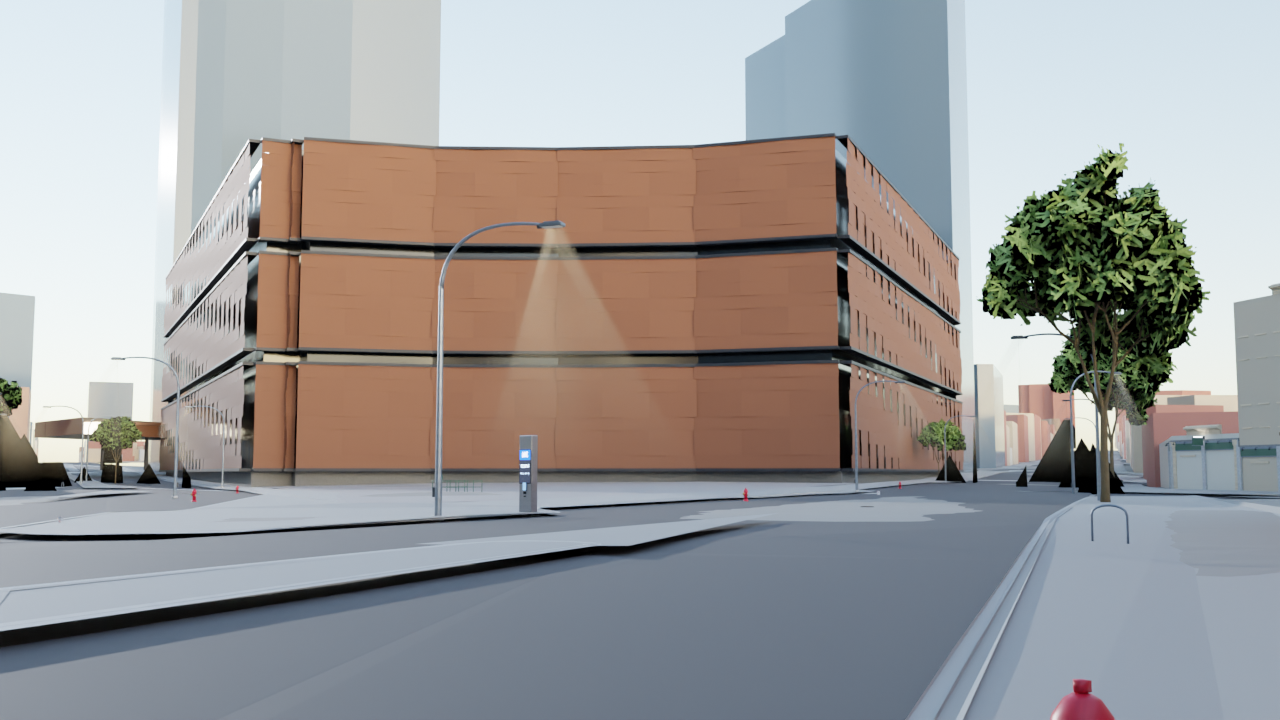
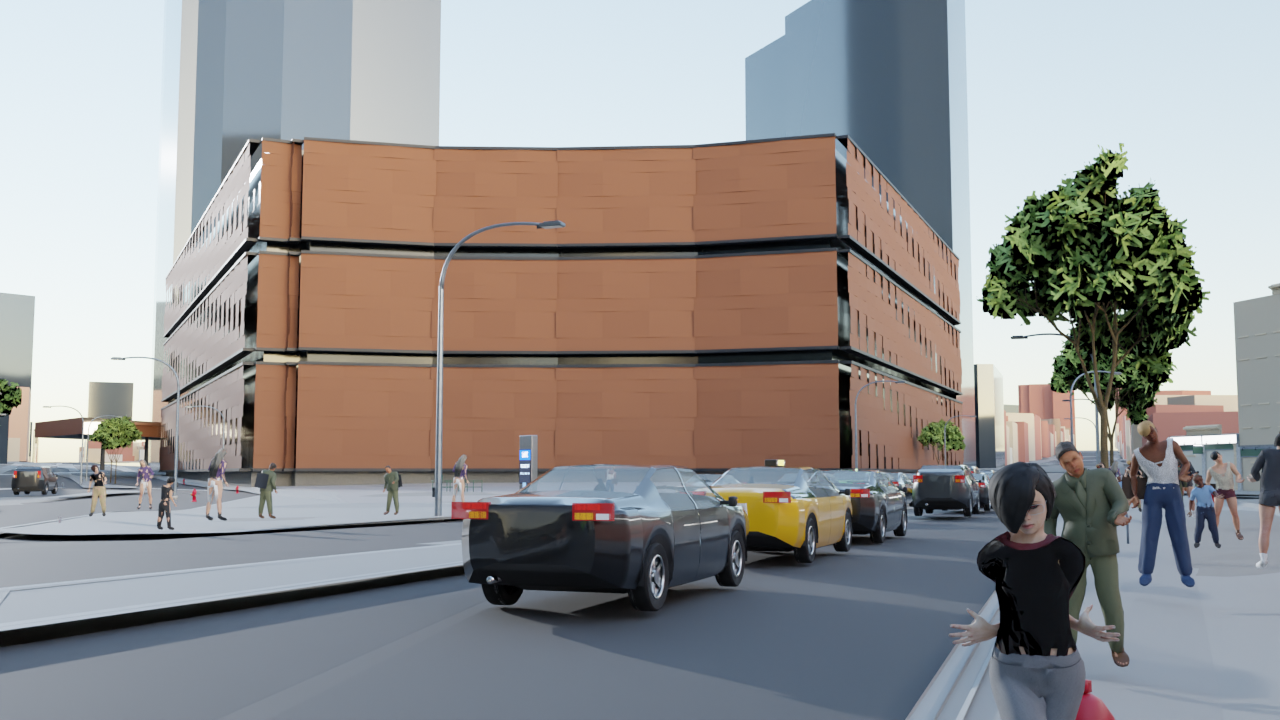
verify: Barclays Center - right silhouette, no surface, and brighter than its photograph
The arena is recognisable: three weathered-steel bands wrapping the curved
corner, dark glazing courses between, the mass turning from Atlantic into
Flatbush.  Subject at 216.8 m, 50 vehicles queued at the junction with a cab
among them, 234 people, a LinkNYC kiosk, trees and lamps.

What is missing is the relief.  The real facade is a deep lattice of canted,
perforated pre-weathered steel panels that reads as texture at any distance;
here it is a smooth plane with panel lines scribed on it.  Right silhouette,
right colour, none of the surface that makes it that building.  The entrance
oculus and canopy are absent.

And this frame is brighter than its photograph - 0.570 against 0.384 - one of
the three in the current pass that go that way.  It is the concrete reason I16
is recorded as over-dispersion rather than as a darkening: a constant exposure
offset would fix the Wall Street canyon and ruin this.

Claude-Session: https://claude.ai/code/session_012rCzdfEp56Z5bDvSJLVsiQ

diff --git a/docs/verification/comparison/landmark_barclays_center/assessment.md b/docs/verification/comparison/landmark_barclays_center/assessment.md
@@ -12,6 +12,29 @@
 
 **Verdict — right place, right footprint, right colour, wrong shape: the arena is a plain banded box where the building is a sculpted weathering-steel shell with a cantilevered canopy and an oculus, and the corner it stands on is empty of everything that fills the photograph**
 
+## Re-rendered 2026-09-07
+
+The arena is recognisable, which is the main thing a landmark sheet has to achieve: the three
+weathered-steel bands wrapping the curved corner, the dark glazing courses between them, the way the
+mass turns from Atlantic Avenue into Flatbush. Subject at 216.8 m, two landmark models in the scene,
+50 vehicles queued at the junction with a yellow cab among them, 234 people on the pavements, a
+LinkNYC kiosk at the kerb, street trees and lamp standards.
+
+**What is missing is the relief.** The real facade is a deep lattice of pre-weathered steel panels,
+each one canted and perforated, and it reads as texture at any distance. Here it is a smooth
+orange-brown plane with faint panel lines scribed on it, so the building has the right silhouette,
+the right colour and none of the surface that makes it that building. The entrance oculus and its
+canopy are absent.
+
+**This frame is brighter than its photograph, not darker** — mean **0.570 against 0.384**. It is one
+of the three in the current pass that go that way, and it is the reason deviation I16 is recorded as
+over-dispersion rather than as a darkening: a constant exposure offset would fix the Wall Street
+canyon and ruin this.
+
+No agent needed culling here. The nearest pedestrian sits at the lower right, close enough to be
+prominent and outside the 3.5 m clearance — which is the behaviour that constant was re-derived to
+produce.
+
 ## What matches
 
 * The camera stands on the photograph's own EXIF GPS, 57 m from the item's nominal viewpoint, and the heading (130.4 deg) is the bearing from there to the arena — heading and position both from the photograph.
